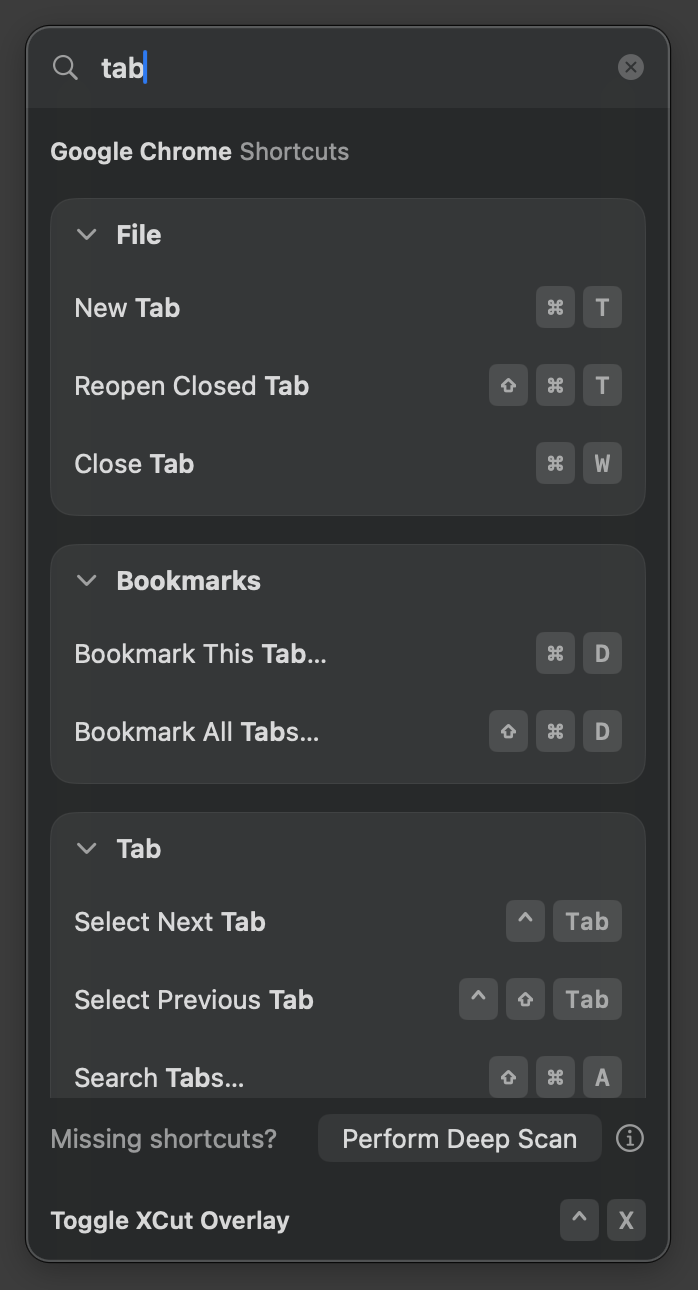
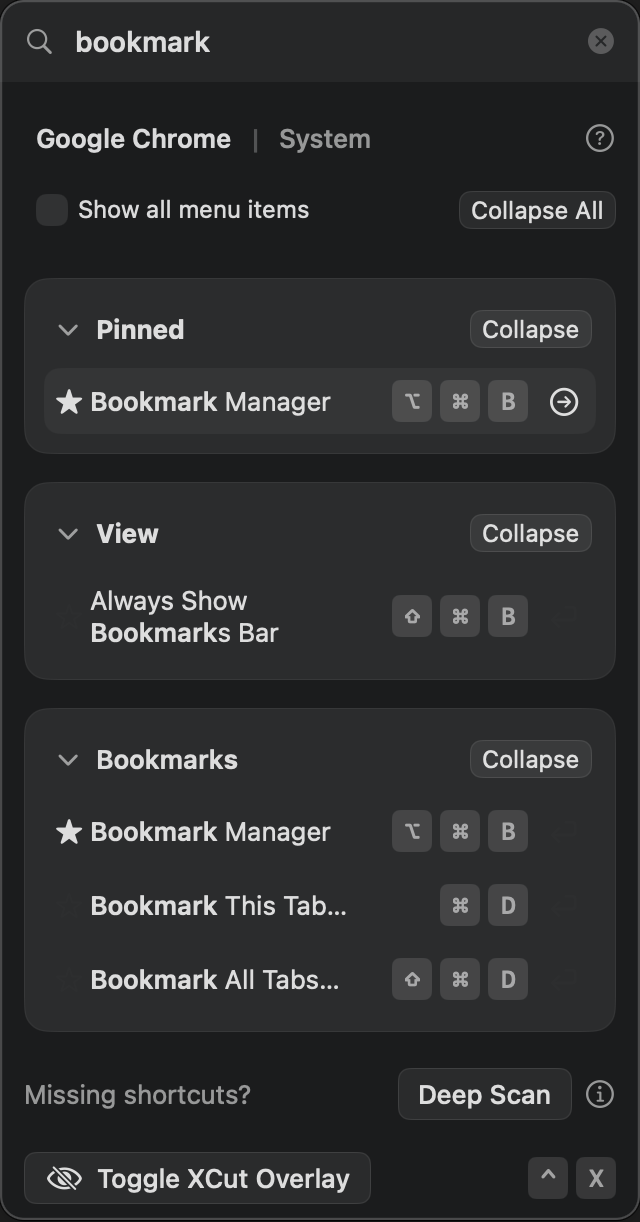
update with 0.9.2-beta resources

diff --git a/components/features.tsx b/components/features.tsx
@@ -1,8 +1,8 @@
 import {
-  LaptopMinimal,
   LaptopMinimalCheck,
   LucideIcon,
   Option,
+  PlayCircle,
   ScanSearch,
   Sliders,
 } from "lucide-react";
@@ -16,15 +16,15 @@ type Feature = {
 
 export const features: Feature[] = [
   {
-    key: "native",
-    icon: LaptopMinimal,
-  },
-  {
     key: "context",
     icon: LaptopMinimalCheck,
   },
   {
-    key: "globalShortcut",
+    key: "instantExecution",
+    icon: PlayCircle,
+  },
+  {
+    key: "keyboardControl",
     icon: Option,
   },
   {
@@ -58,7 +58,7 @@ export default function Features() {
                 alt={t("screenshot_alt")}
                 width={0}
                 height={500}
-                className="rounded-2xl shadow-2xl h-auto max-h-[500px] w-auto"
+                className="rounded shadow-2xl h-auto max-h-[500px] w-auto"
                 sizes="(max-width: 768px) 100vw, 500px"
                 style={{ objectFit: "contain" }}
               />
